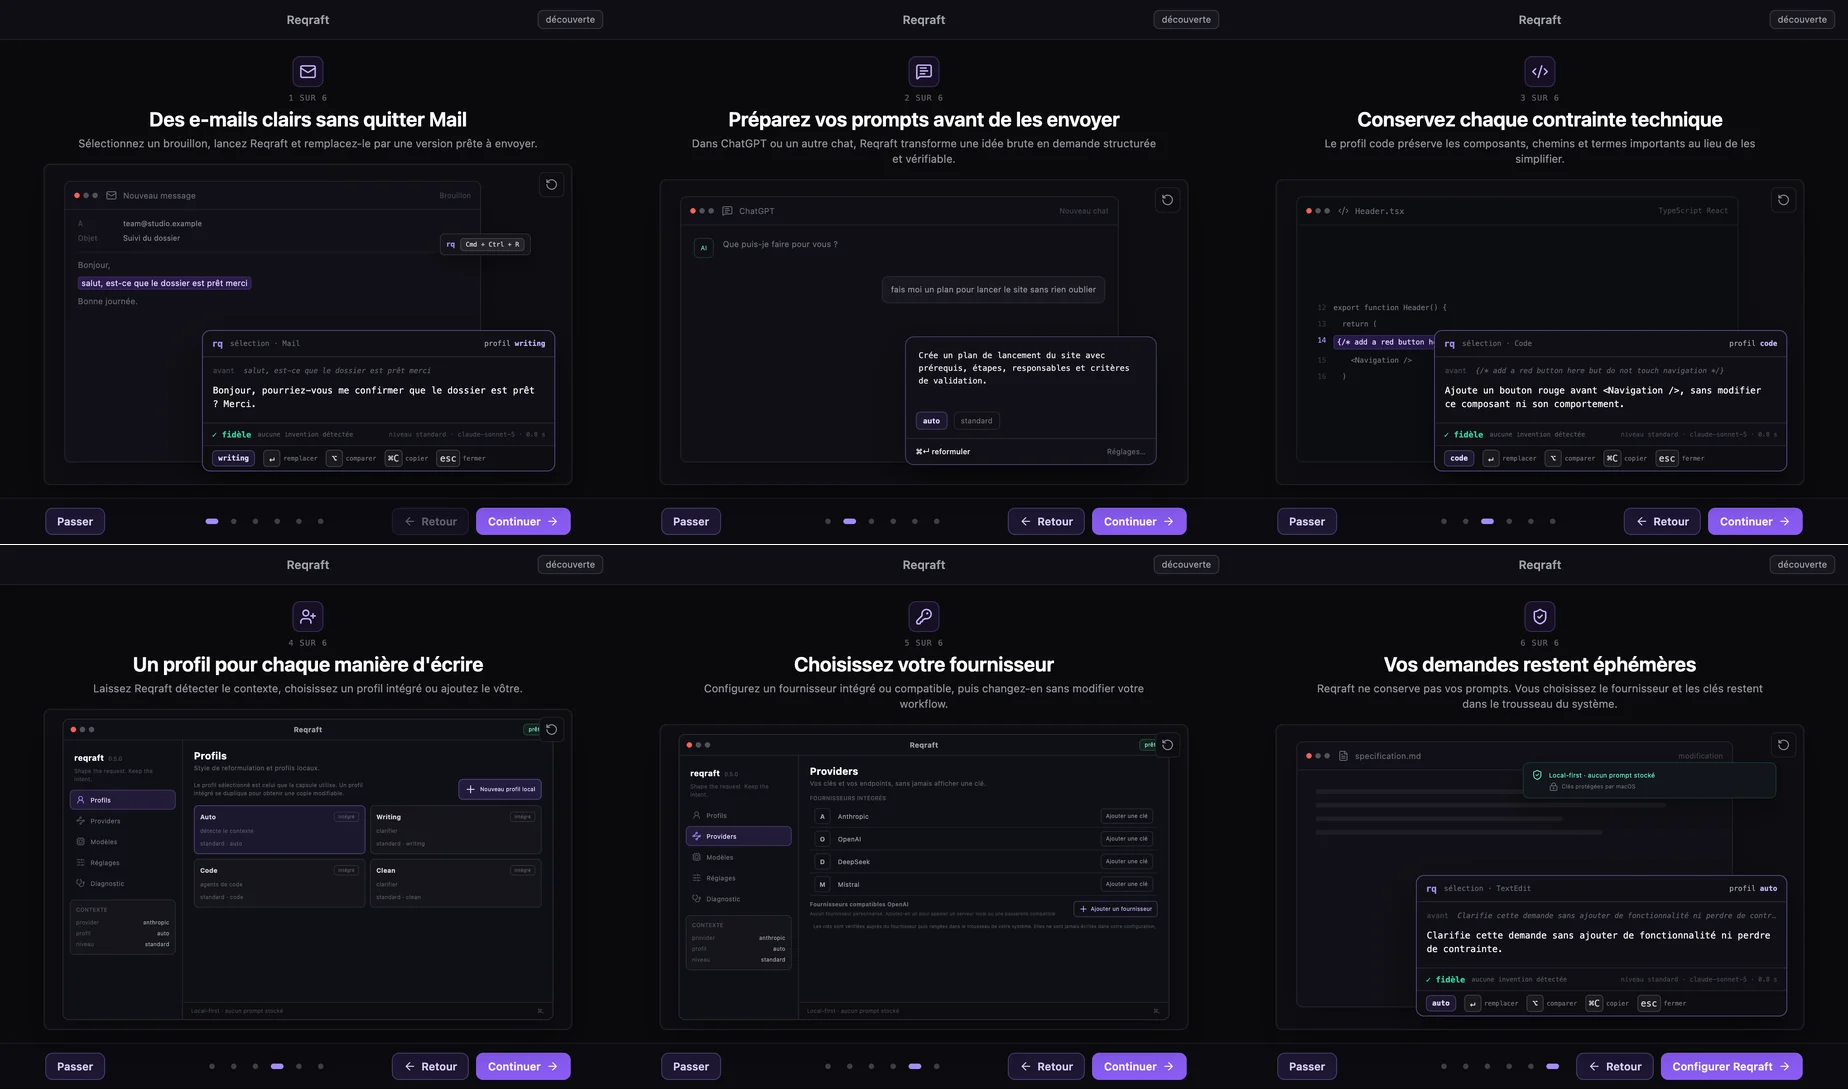
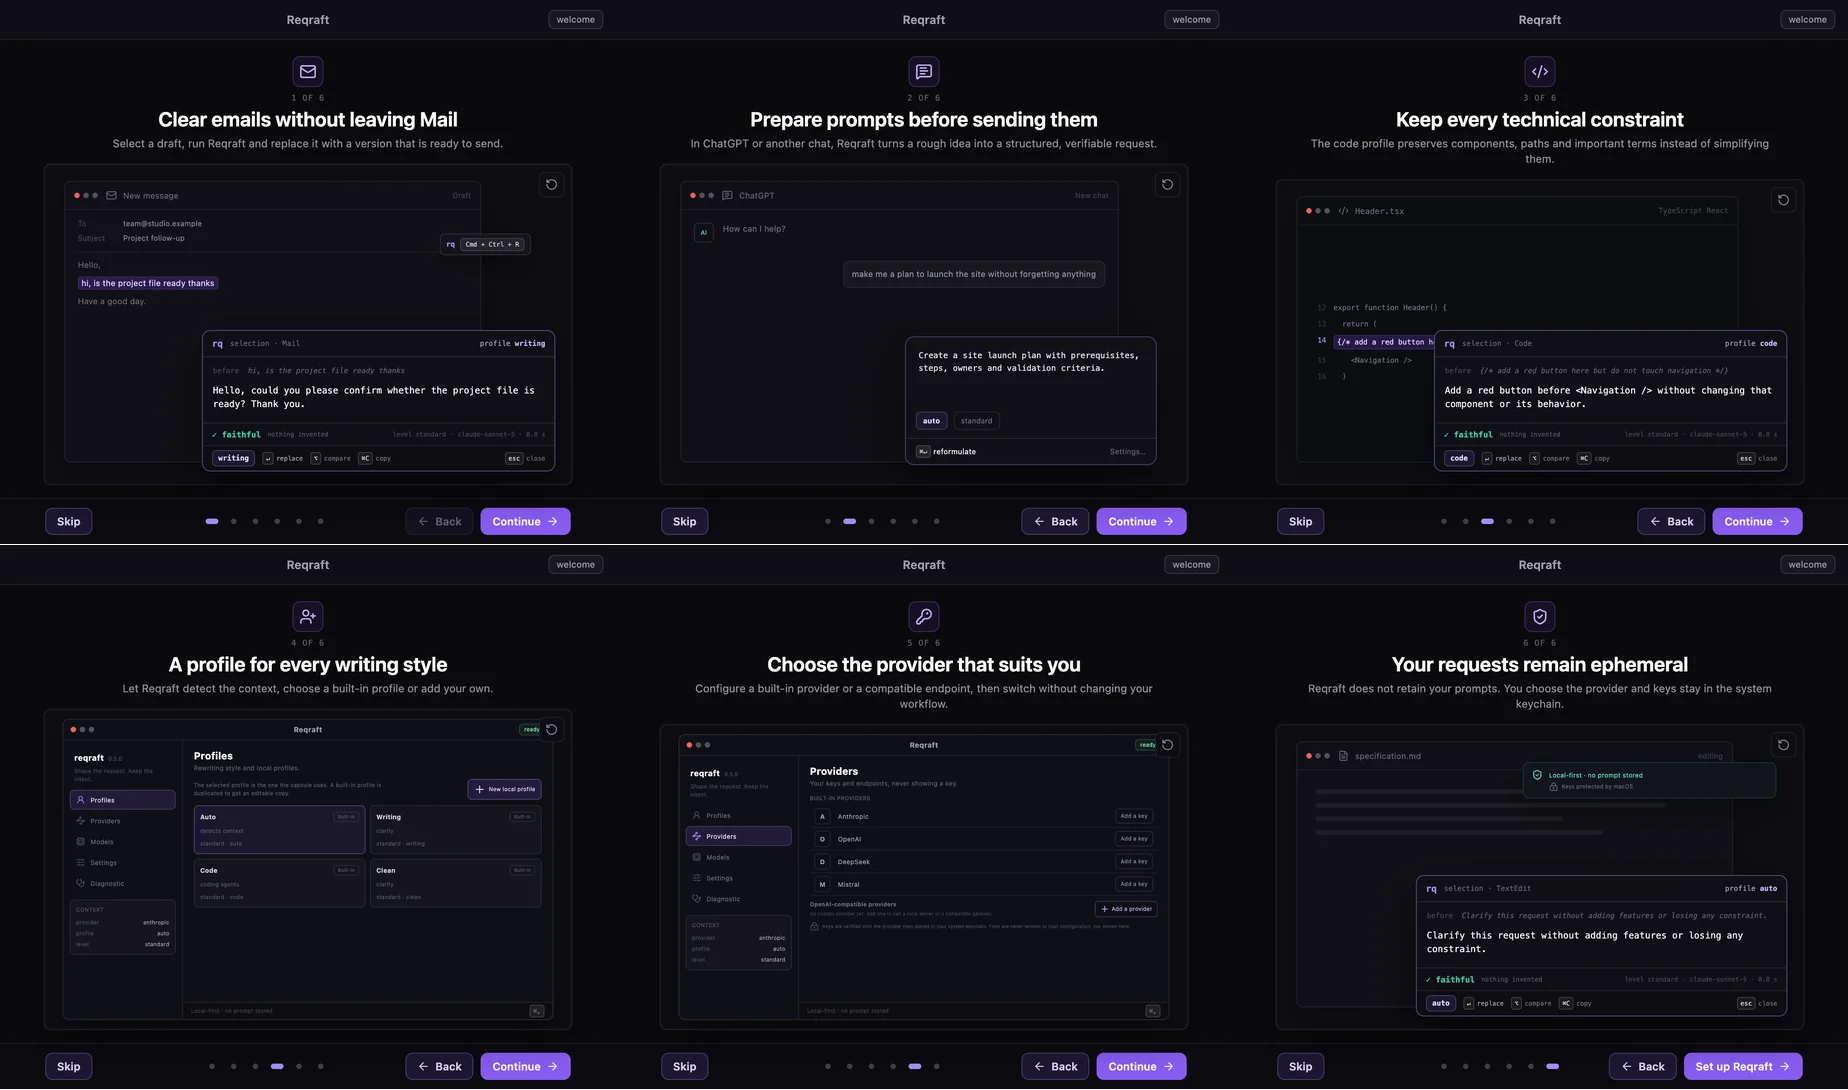
polish(desktop): compact tour shortcut hints

diff --git a/src/apps/desktop/renderer/shared/desktop.css b/src/apps/desktop/renderer/shared/desktop.css
@@ -1895,7 +1895,7 @@ kbd {
 .tour-product-capsule-actions {
   display: flex;
   align-items: center;
-  gap: 9px;
+  gap: 8px;
   min-height: 28px;
   padding: 0 10px;
   border-top: 1px solid rgba(255, 255, 255, 0.08);
@@ -1914,21 +1914,33 @@ kbd {
   font-size: 8px;
 }
 
-.tour-product-capsule-actions span {
-  display: inline-flex;
-  align-items: center;
+.tour-product-capsule-actions .capsule-key {
   gap: 3px;
-  white-space: nowrap;
+  min-height: 0;
+  border-radius: 3px;
+  color: #74747f;
+  font-size: 7px;
+  line-height: 1;
 }
 
 .tour-product-capsule-actions kbd {
-  min-width: 19px;
+  min-width: 0;
   padding: 1px 3px;
   border-color: rgba(255, 255, 255, 0.14);
-  border-radius: 4px;
+  border-radius: 3px;
   background: rgba(255, 255, 255, 0.055);
   color: #d4d4d8;
+  font-size: 7px;
+  line-height: 10px;
   text-align: center;
+}
+
+.tour-product-capsule-actions .key-primary {
+  color: #a1a1aa;
+}
+
+.tour-product-capsule-actions .key-close {
+  margin-left: auto;
 }
 
 .tour-product-popover {
@@ -1995,6 +2007,20 @@ kbd {
 .tour-product-popover-footer strong {
   color: #e4e4e7;
   font-weight: 500;
+}
+
+.tour-product-popover-footer .capsule-key {
+  gap: 3px;
+  min-height: 0;
+  font-size: 8px;
+}
+
+.tour-product-popover-footer kbd,
+.tour-product-settings-main > footer kbd {
+  padding: 1px 3px;
+  border-radius: 3px;
+  font-size: 7px;
+  line-height: 10px;
 }
 
 .tour-product-settings {
@@ -2180,6 +2206,10 @@ kbd {
   background: rgba(0, 0, 0, 0.2);
   color: #484852;
   font-size: 6px;
+}
+
+.tour-product-settings-main > footer kbd {
+  color: #71717a;
 }
 
 .tour-product-profile-toolbar {

diff --git a/src/apps/desktop/renderer/onboarding/WelcomeTour.tsx b/src/apps/desktop/renderer/onboarding/WelcomeTour.tsx
@@ -302,19 +302,19 @@ function ProductCapsule({
       </div>
       <div className="tour-product-capsule-actions">
         <b>{profile}</b>
-        <span>
+        <span className="capsule-key key-primary">
           <kbd>↵</kbd>
           {t("capsule.replace")}
         </span>
-        <span>
+        <span className="capsule-key">
           <kbd>⌥</kbd>
           {t("capsule.compare")}
         </span>
-        <span>
+        <span className="capsule-key">
           <kbd>⌘C</kbd>
           {t("capsule.copy")}
         </span>
-        <span>
+        <span className="capsule-key key-close">
           <kbd>esc</kbd>
           {t("capsule.close")}
         </span>
@@ -332,7 +332,10 @@ function ProductPopover({ t }: Readonly<{ t: Translate }>): React.JSX.Element {
         <span>standard</span>
       </div>
       <div className="tour-product-popover-footer">
-        <strong>⌘↵ {t("capsule.reformulate")}</strong>
+        <strong className="capsule-key key-primary">
+          <kbd>⌘↵</kbd>
+          {t("capsule.reformulate")}
+        </strong>
         <span>{t("popover.settings")}</span>
       </div>
     </div>
@@ -500,7 +503,7 @@ function ProductSettingsFrame({
           <div className="tour-product-settings-content">{children}</div>
           <footer>
             <span>{t("settings.footer")}</span>
-            <em>⌘,</em>
+            <kbd>⌘,</kbd>
           </footer>
         </section>
       </div>
